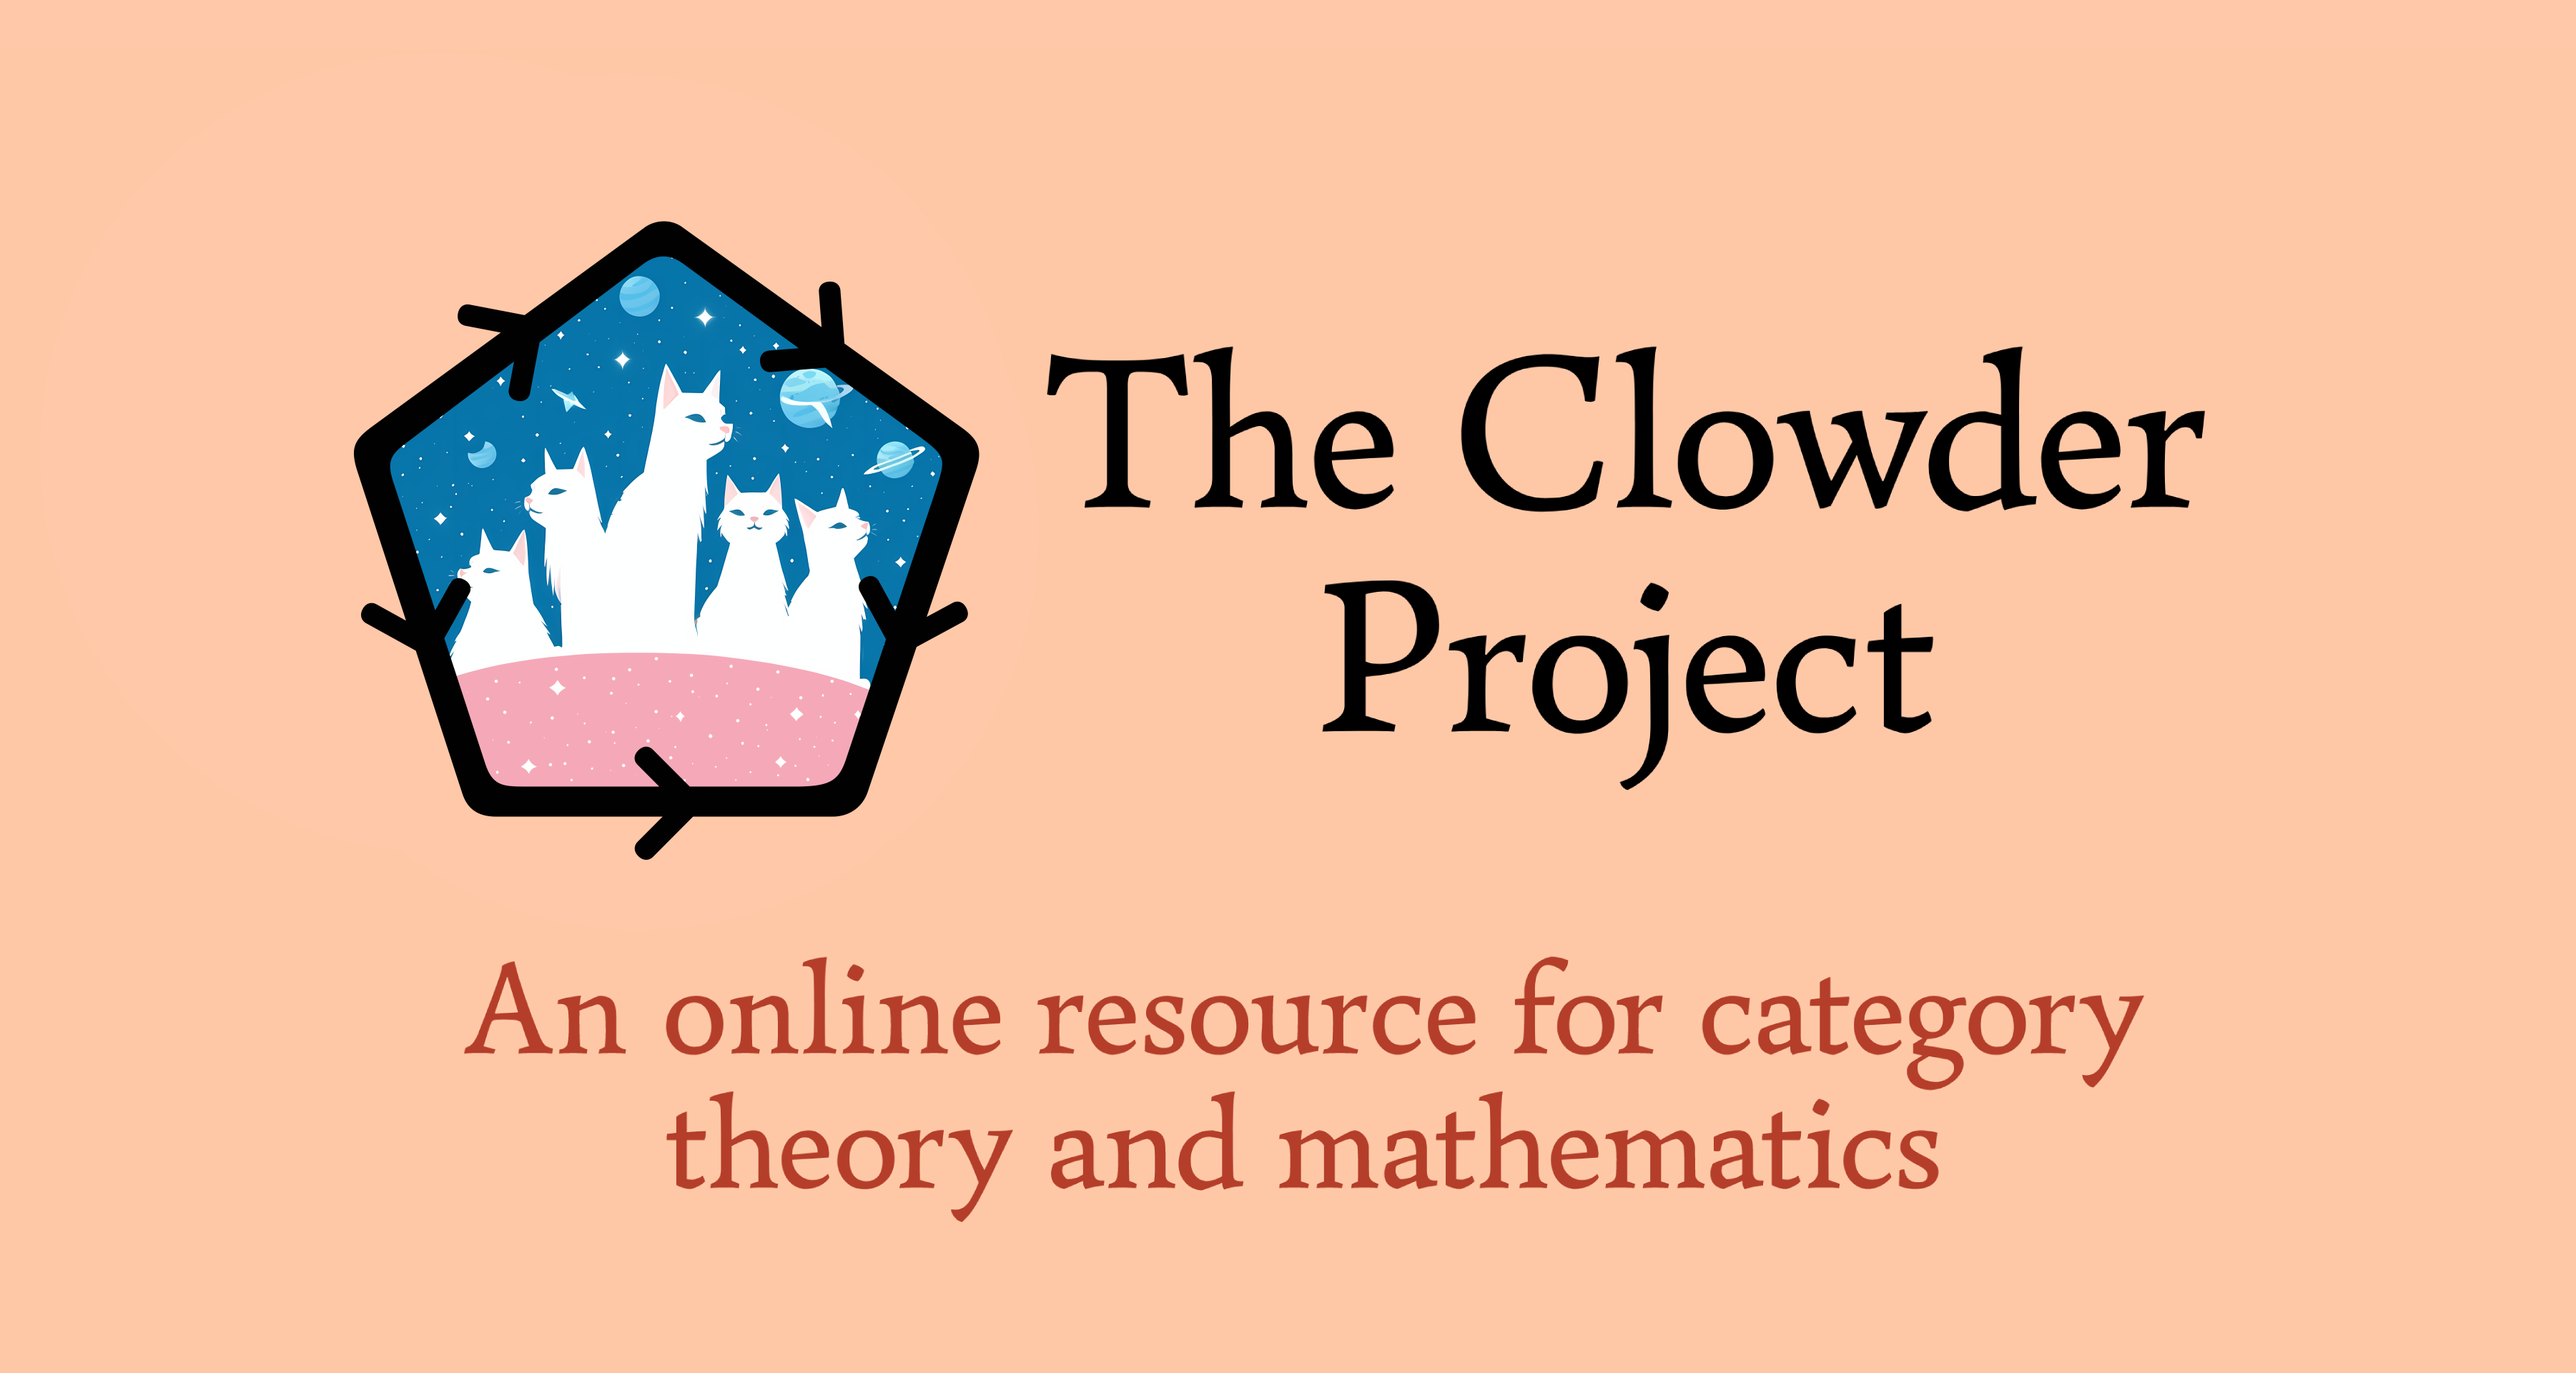
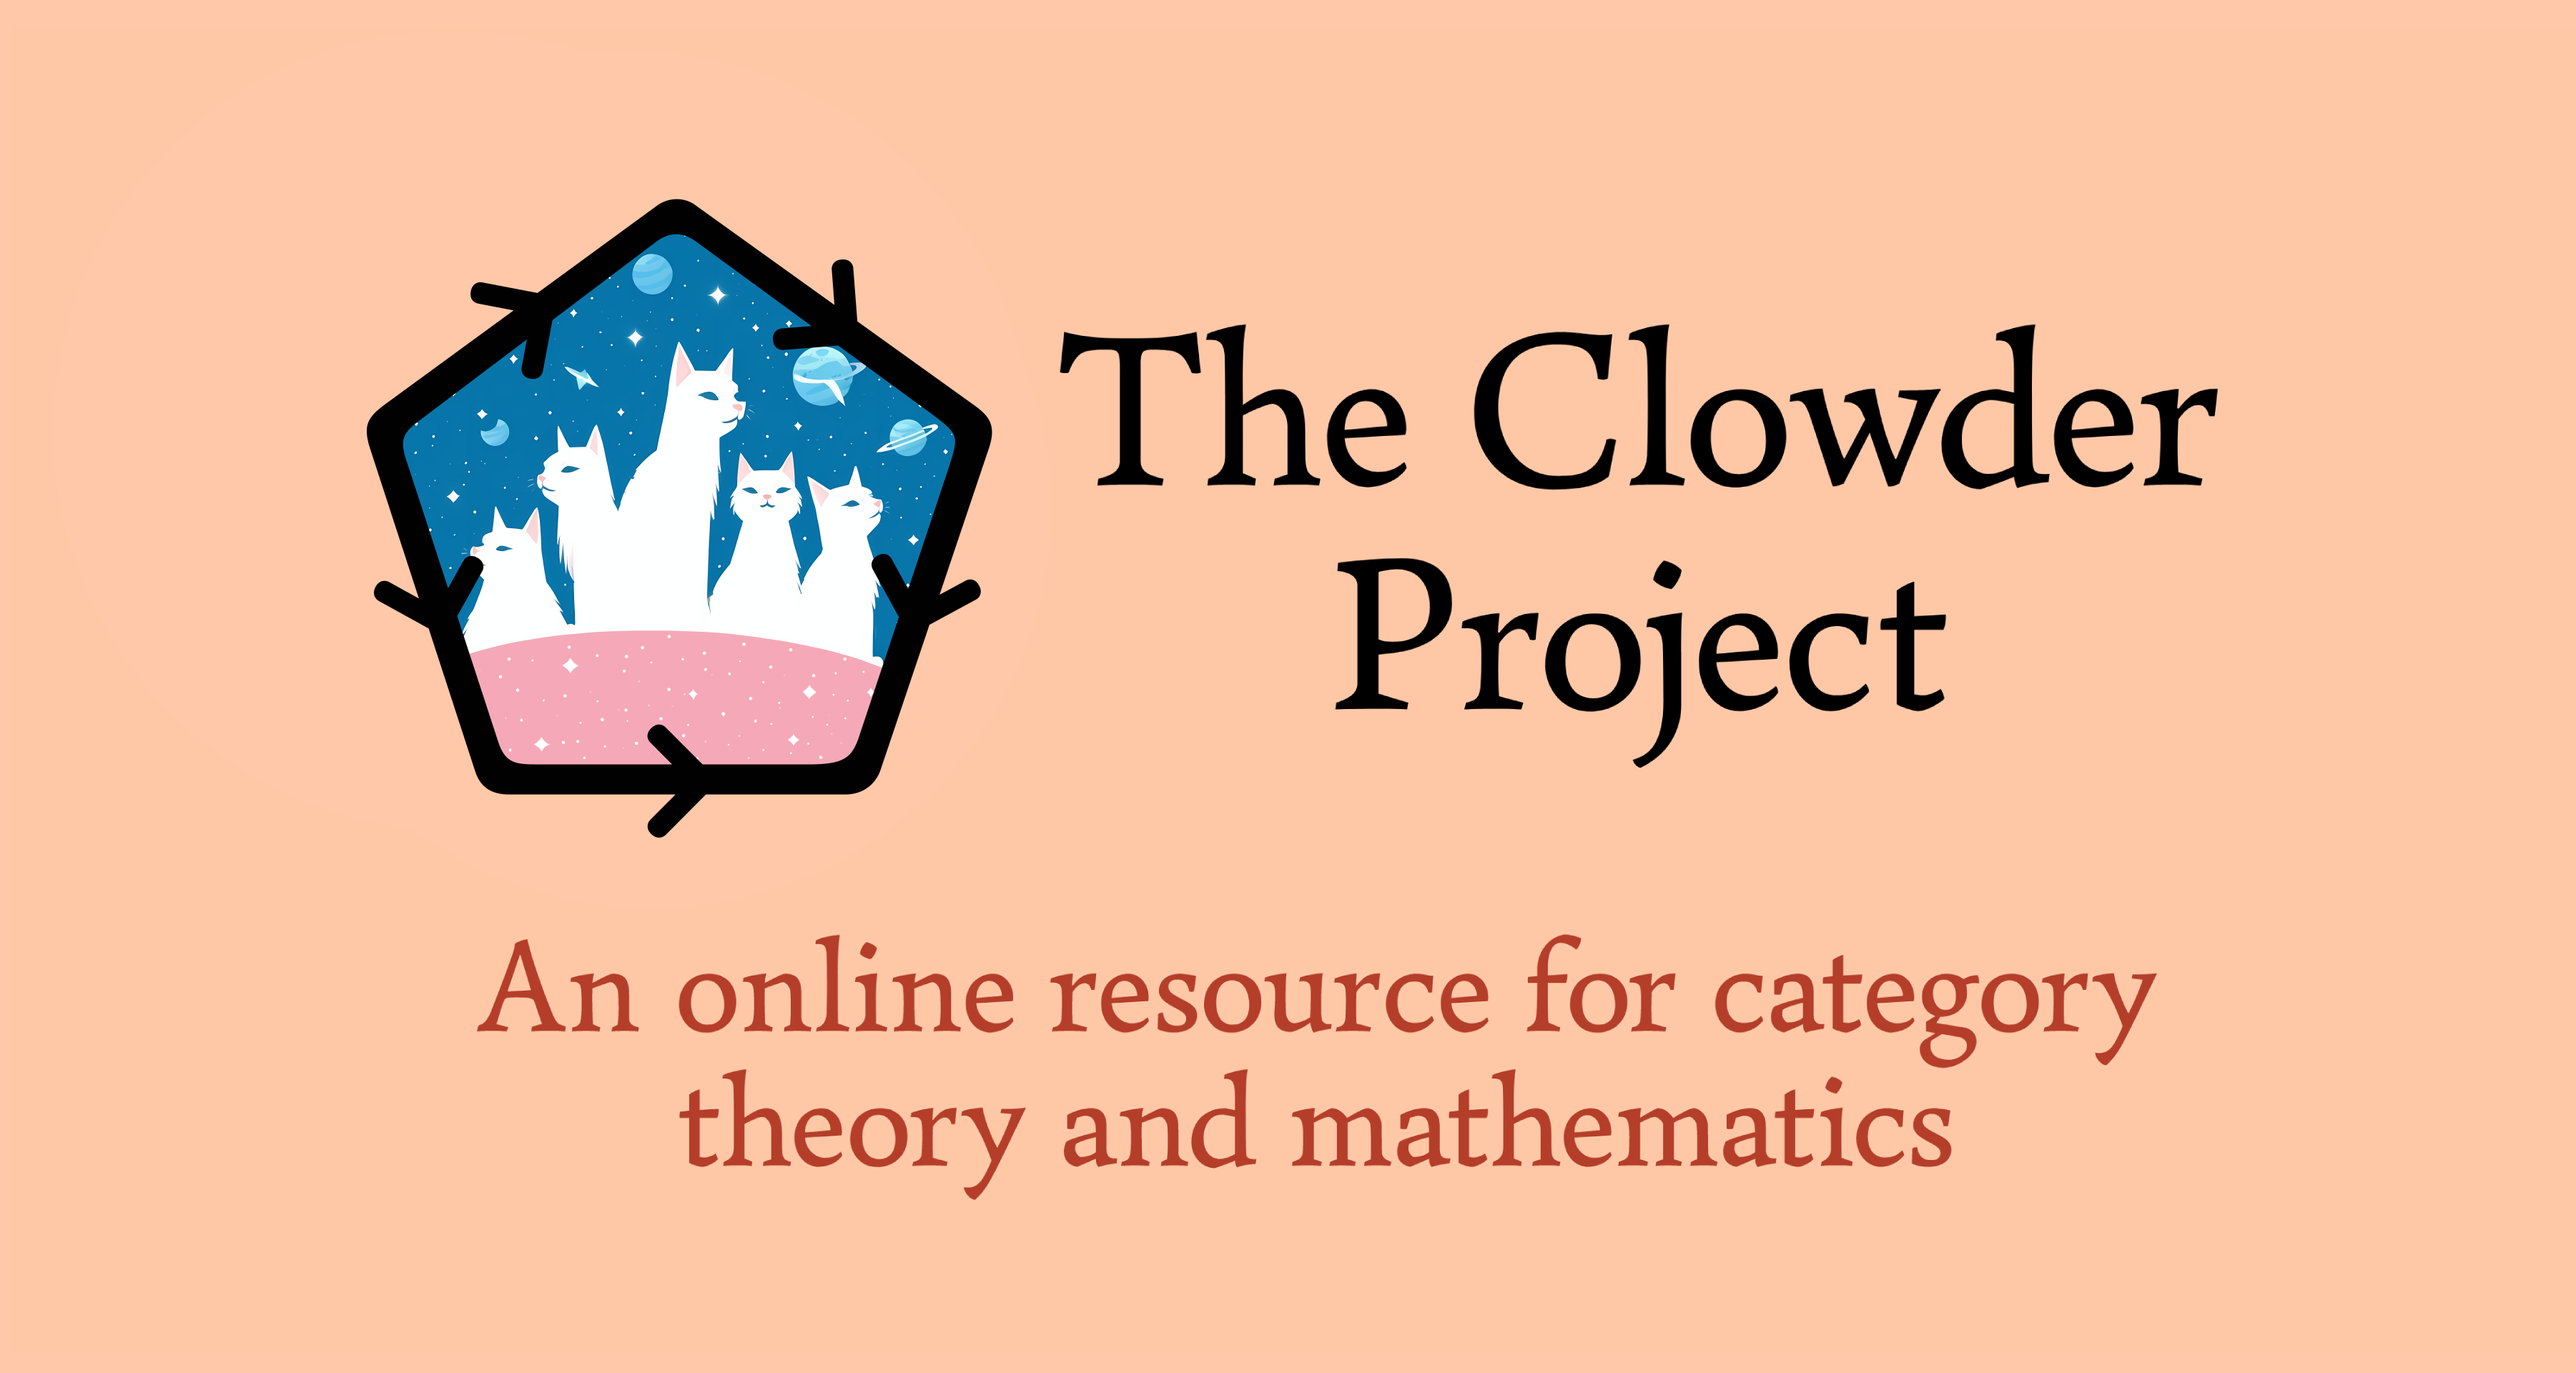
2024-04-17-17:33 Update

Changed region(s): [[0.1243, 0.1249, 0.8704, 0.6247], [0.1865, 0.6871, 0.8393, 0.8745], [0.4974, 0.406, 0.7771, 0.5622]]

diff --git a/gerby/templates/index.html b/gerby/templates/index.html
@@ -8,7 +8,7 @@
   <div class="index-page-body">
     <!--<div class="highlighted-warning-box"><b>Important: </b>Currently, most chapters are empty placeholders, with the exception of the first 11 chapters, though chapter 7 is also empty.</div>-->
 
-    <div align="center"><span style="align:center;" class="dark-svg"><img width="100%" src="/static/images/clowder.png"></span></div>
+    <div align="center"><img width="100%" class="clowder-logo"></div>
 
     <p style="text-align:center;margin-top:1.25em;margin-bottom:1em"><b>Welcome to the Clowder Project!</b></p>
 

diff --git a/gerby/static/css/style.css b/gerby/static/css/style.css
@@ -1073,3 +1073,6 @@ ul#index-select li#index-invisible span {
 .semibold {
     font-variation-settings: "wght" 600, "wdth" 93;
 }
+.clowder-logo {
+    content:url("/static/images/clowder.png");
+}

diff --git a/gerby/static/css/dark-mode.css b/gerby/static/css/dark-mode.css
@@ -481,3 +481,6 @@ body.dark-mode {
   color: black;
   text-decoration: none;
 }
+.dark-mode .clowder-logo {
+    content:url("/static/images/clowder-dark.png");
+}
